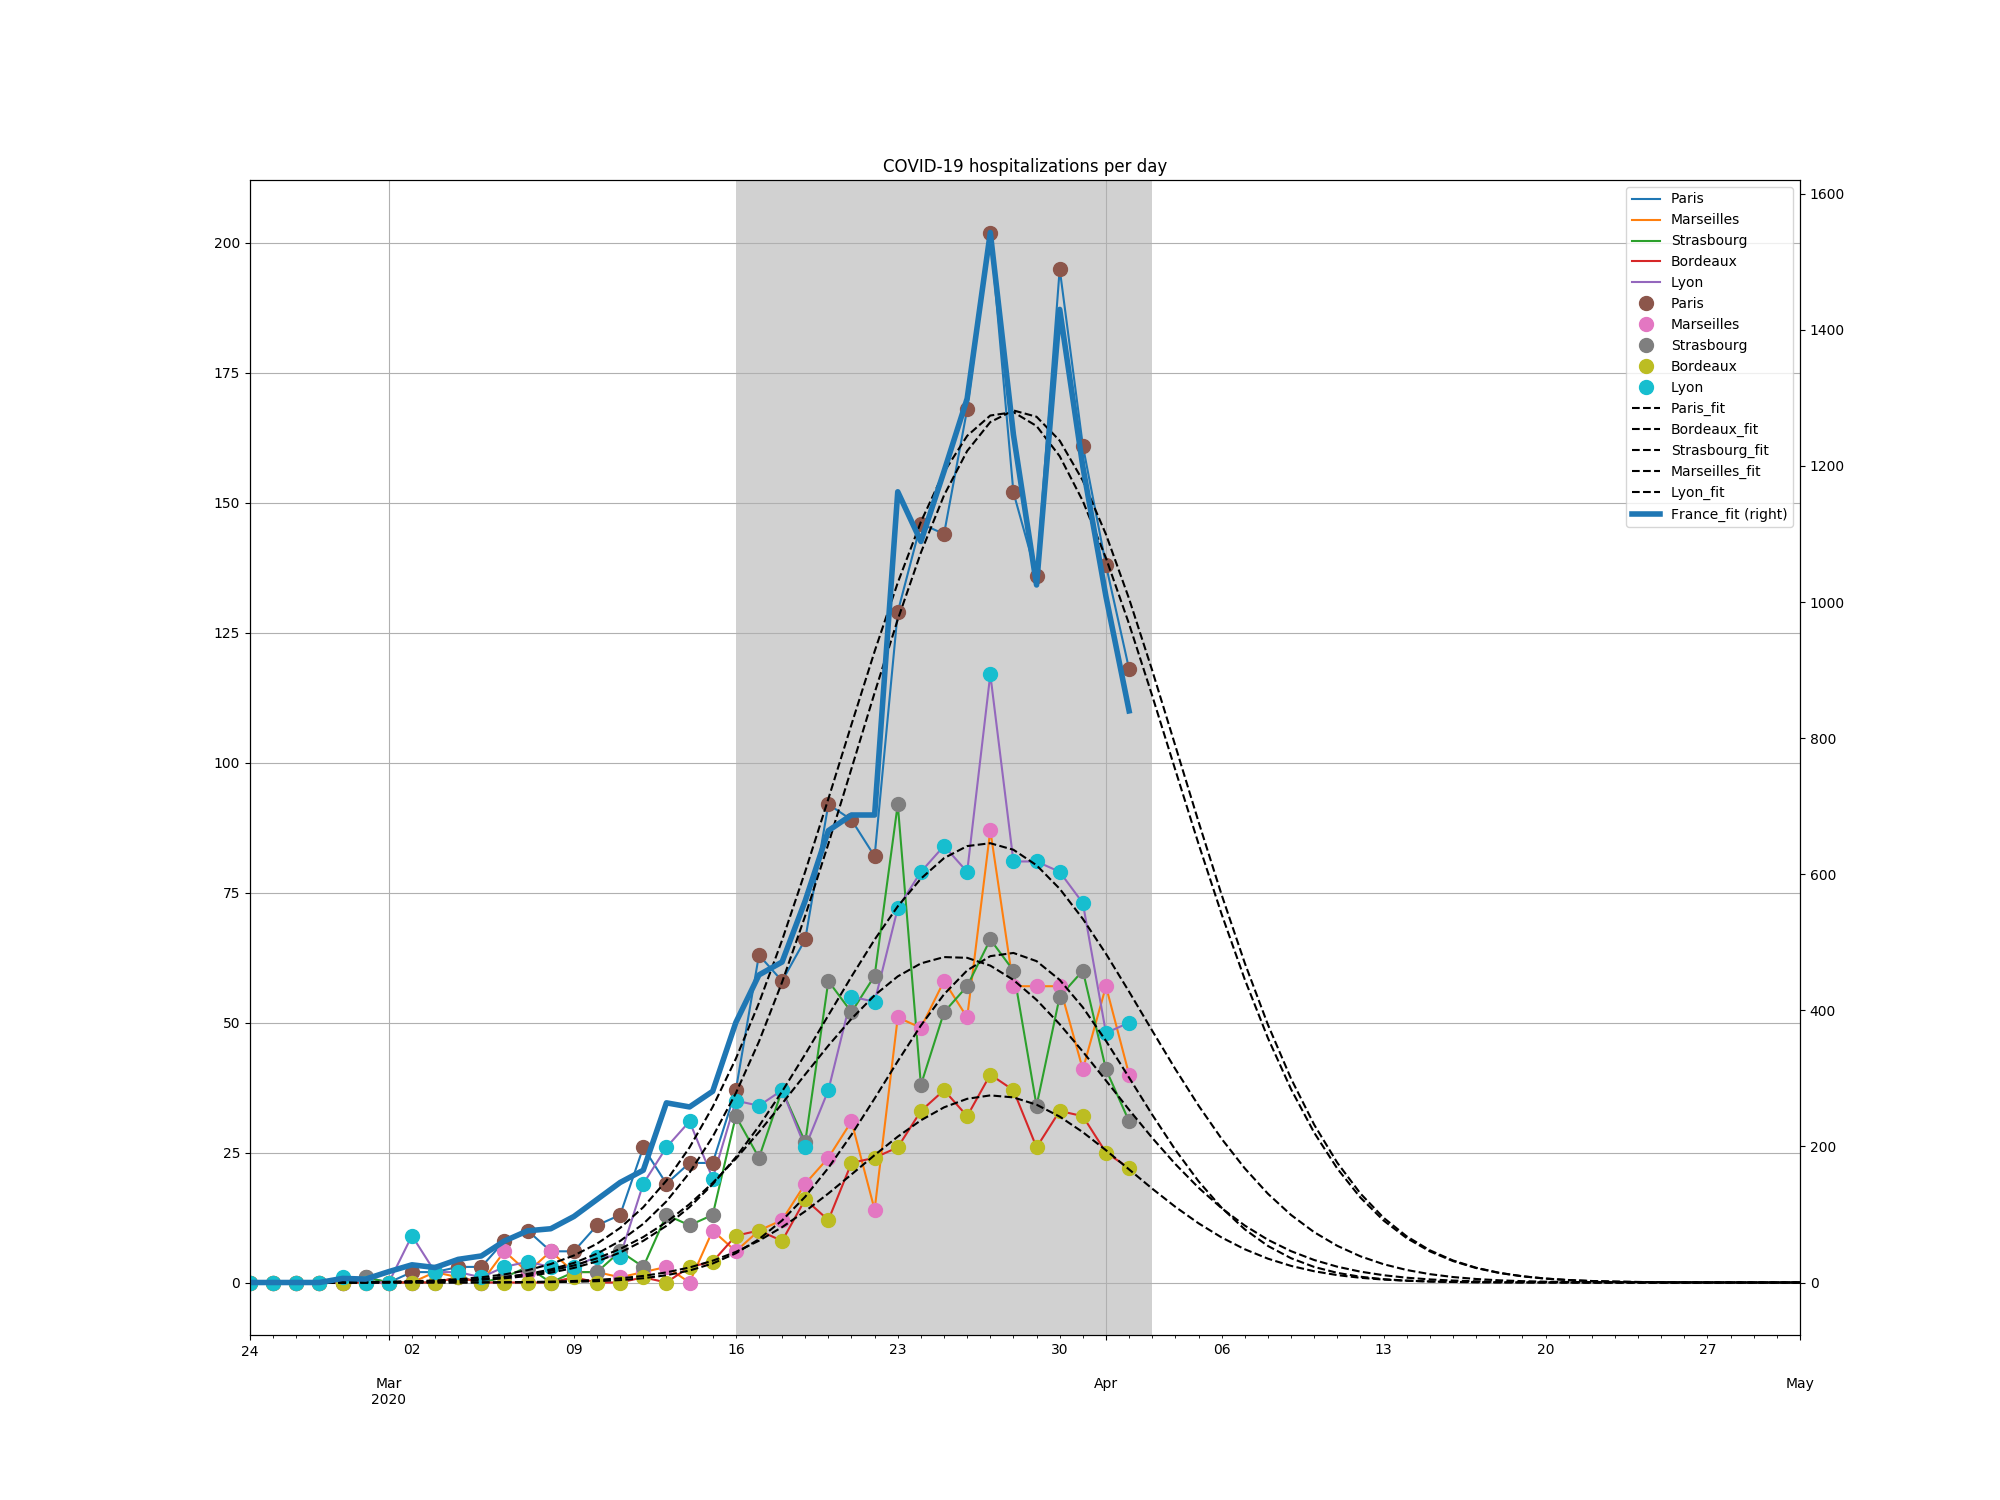
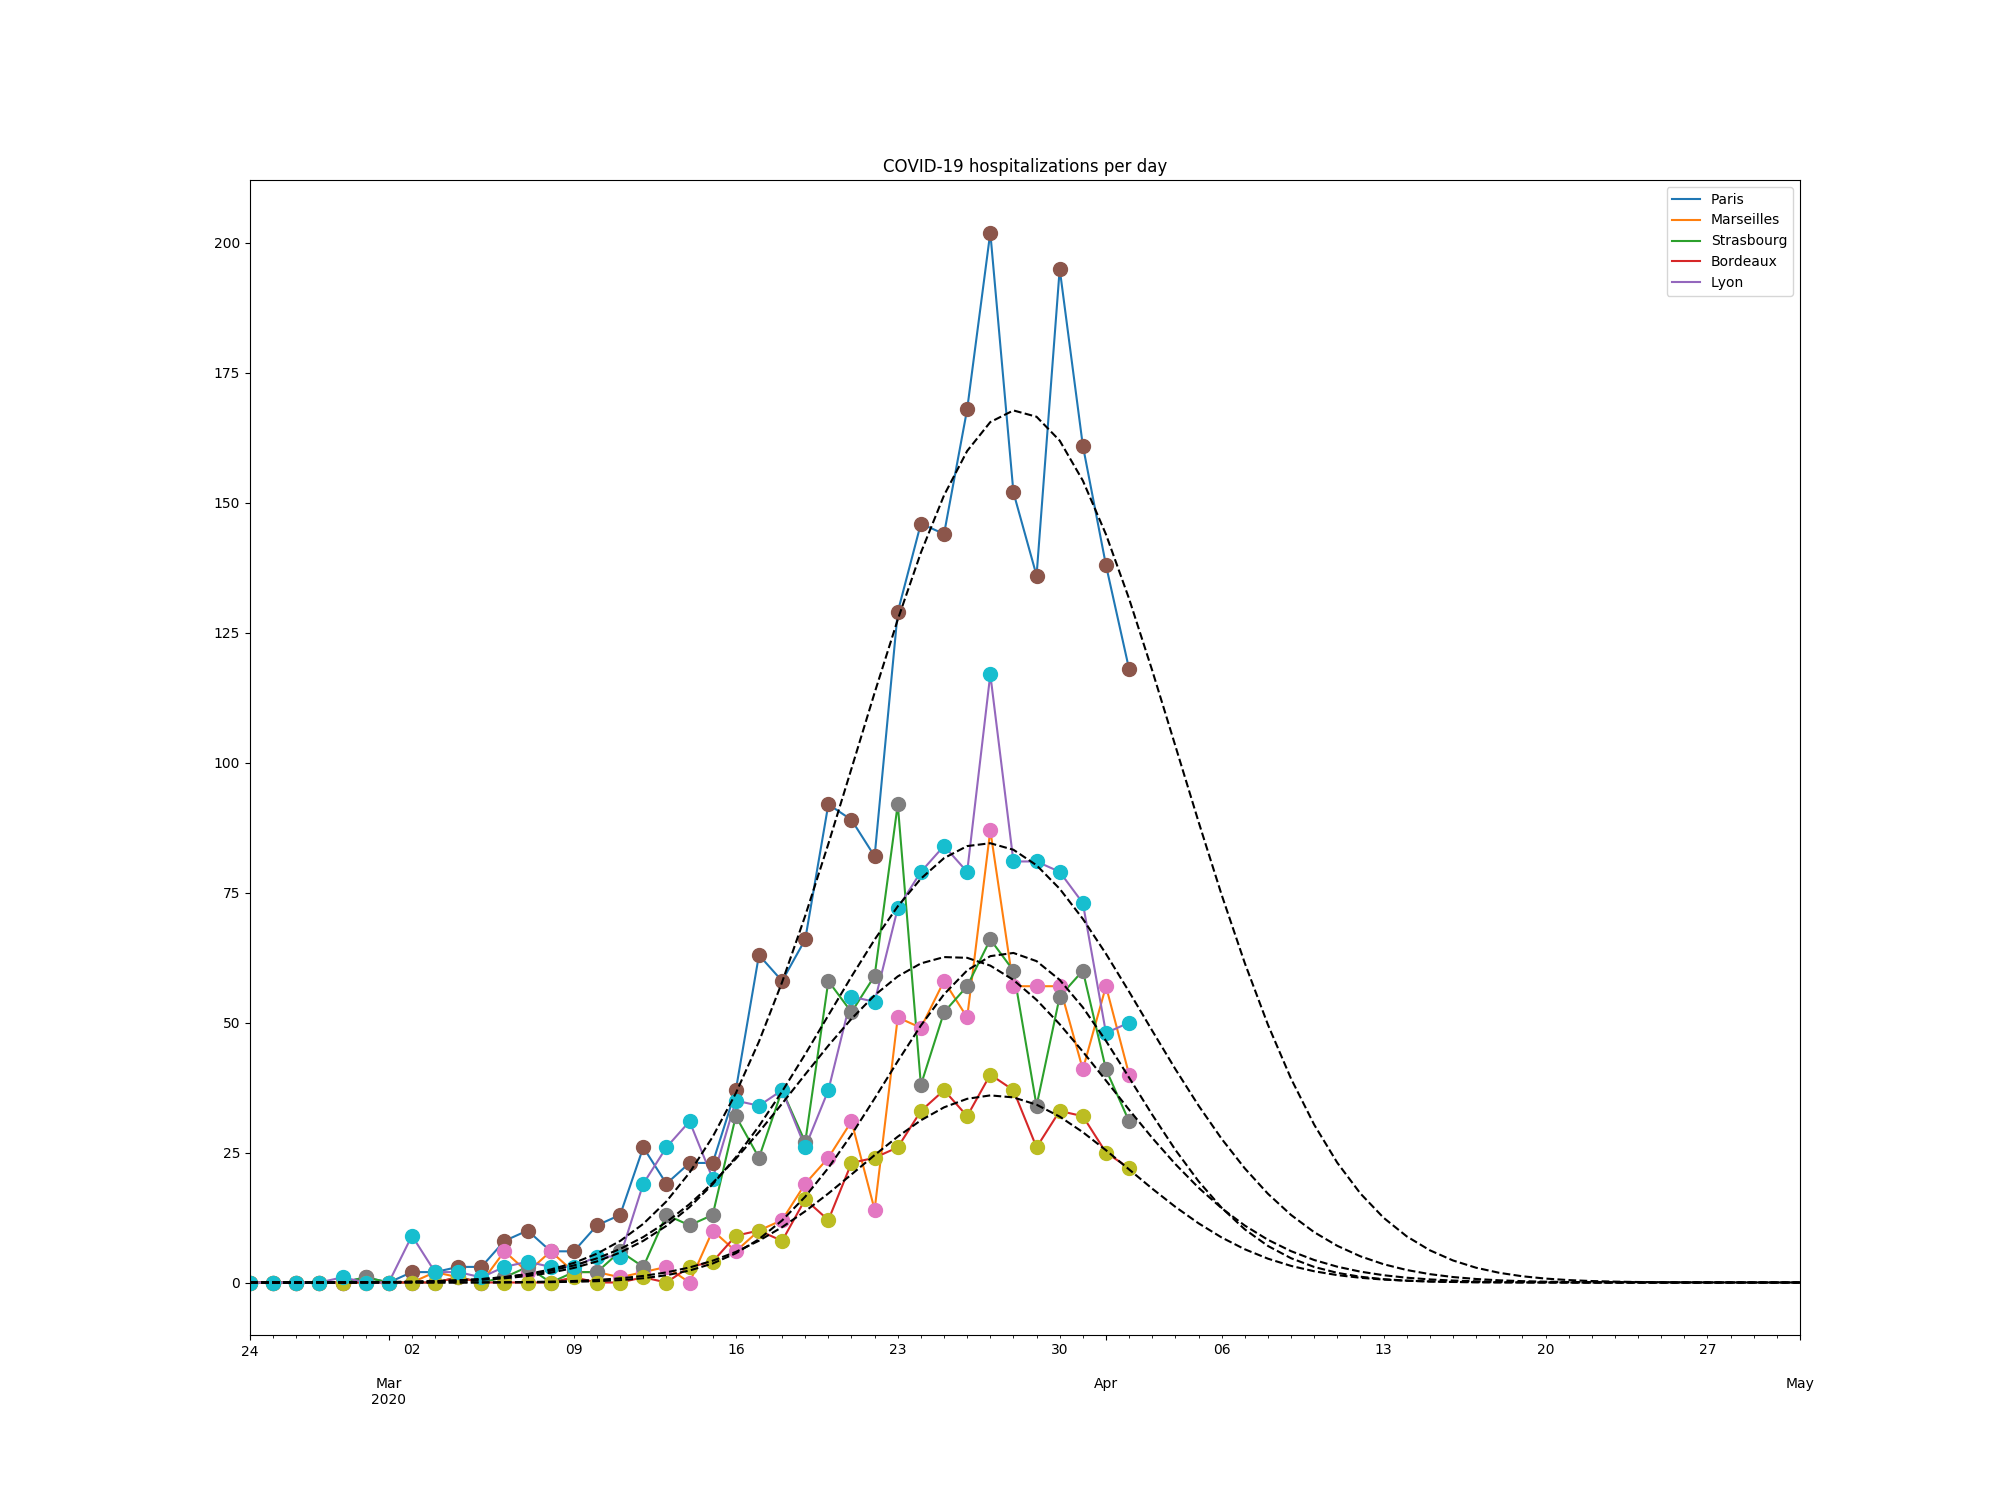
20200402

diff --git a/hospitalizations.py b/hospitalizations.py
@@ -93,12 +93,13 @@ covid['France_fit'] = gaussian_fit_data(covid.France)
 
 title = "COVID-19 hospitalizations per day"
 fig1, ax1 = plt.subplots()
-covid.plot(y=['Paris', 'Marseilles', 'Strasbourg', 'Bordeaux', 'Lyon'], ax=ax1, title=title, grid=True, figsize=(20, 15))
-covid.plot(y=['Paris', 'Marseilles', 'Strasbourg', 'Bordeaux', 'Lyon'], ax=ax1, style='o', ms=10)
-covid.plot(style='k--', y=['Paris_fit', 'Bordeaux_fit', 'Strasbourg_fit', 'Marseilles_fit', 'Lyon_fit'], ax=ax1)
-covid.plot(style='k--', y=['France_fit', ], secondary_y=True, ax=ax1)
+covid.plot(y=['Paris', 'Marseilles', 'Strasbourg', 'Bordeaux', 'Lyon'], legend=False, ax=ax1, title=title, grid=True, figsize=(20, 15))
+covid.plot(y=['Paris', 'Marseilles', 'Strasbourg', 'Bordeaux', 'Lyon'], legend=True, ax=ax1, style='o', ms=10)
+covid.plot(style='k--', y=['Paris_fit', 'Bordeaux_fit', 'Strasbourg_fit', 'Marseilles_fit', 'Lyon_fit'], ax=ax1, legend=False).\
+    get_figure().savefig('hospitalizations.png')
+# covid.plot(style='k--', y=['France_fit', ], secondary_y=True, ax=ax1, legend=False)
 ax1.axvspan(lockdown_start, lockdown_end, facecolor='0.1', alpha=0.2)
-covid.plot(y="France", secondary_y=True, ax=ax1, lw=4, grid=True).get_figure().savefig('hospitalizations.png')
+# covid.plot(y="France", legend=True, secondary_y=True, ax=ax1, lw=4, grid=True, style='r').get_figure().savefig('hospitalizations.png')
 
 # covid.plot(y=["Paris_fit"], style='.', ax=ax1)
 
